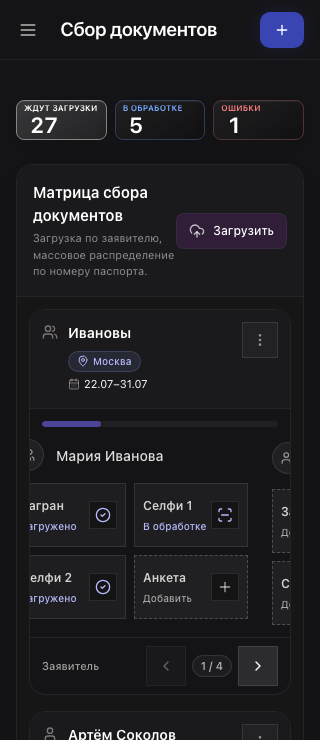
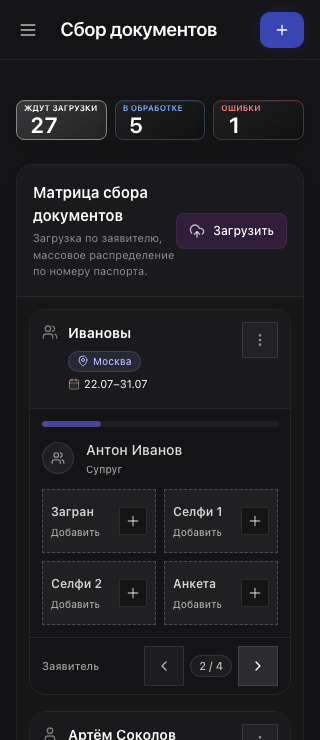
feat(ui): refine submission review actions and questionnaire choices
Что изменено:
- Уточнены drawer actions для review, corrections, export и draft состояний.
- Добавлено сворачивание выбранного варианта анкеты и улучшена blocker accessibility copy.
- Усилен visual baseline и точность document carousel E2E.
- Включены все новые параллельные QA screenshots.

Проверка:
- Tests: pass — documents Playwright 2/2.
- Typecheck and focused ESLint: pass.

Риск:
- Low/Medium — затронуты UI-состояния анкеты и drawer; rollback через revert этого коммита.

diff --git a/src/modules/submissions/components/FigmaQuestionnaireScreen.tsx b/src/modules/submissions/components/FigmaQuestionnaireScreen.tsx
@@ -637,6 +637,7 @@ function FormField({
 }: FormFieldProps) {
   const fieldContract = useContext(QuestionnaireFieldUiContext);
   const [isOpen, setIsOpen] = useState(false);
+  const [quickOptionsExpanded, setQuickOptionsExpanded] = useState(() => !value);
   const [isSuggestionsOpen, setIsSuggestionsOpen] = useState(false);
   const [optionQuery, setOptionQuery] = useState("");
   const [activeOptionIndex, setActiveOptionIndex] = useState(-1);
@@ -661,6 +662,7 @@ function FormField({
   }, [isOpen]);
 
   const usesQuickOptions = Boolean(options && options.length <= 3);
+  const collapsesQuickOptions = Boolean(options && options.length === 3);
   const usesOptionSearch = Boolean(options && options.length > 8);
   const filteredOptions = useMemo(() => {
     if (!options) return [];
@@ -701,6 +703,10 @@ function FormField({
     });
   }, [filteredOptions, isOpen]);
 
+  useEffect(() => {
+    if (!value) setQuickOptionsExpanded(true);
+  }, [value]);
+
   const canonicalRequired = fieldContract?.required(modelFieldId) ?? false;
   const canonicalFocused = fieldContract?.focused(modelFieldId) ?? focused;
   const canonicalState = fieldContract?.state(modelFieldId, label) ?? state;
@@ -738,6 +744,10 @@ function FormField({
       : effectiveState === "invalid"
         ? "is-invalid"
         : "is-normal";
+  const visibleQuickOptions =
+    collapsesQuickOptions && value && !quickOptionsExpanded
+      ? options?.filter((option) => option === value)
+      : options;
   const activeOptionId =
     isOpen && activeOptionIndex >= 0 && activeOptionIndex < filteredOptions.length
       ? `${optionsListboxId}-option-${activeOptionIndex}`
@@ -896,18 +906,45 @@ function FormField({
           aria-invalid={effectiveState === "invalid" ? "true" : undefined}
           aria-labelledby={fieldLabelId}
           aria-required={canonicalRequired ? "true" : undefined}
-          className="v19-questionnaire-quick-options"
+          className={`v19-questionnaire-quick-options${
+            collapsesQuickOptions && value ? " has-selection" : ""
+          }${
+            collapsesQuickOptions && value && !quickOptionsExpanded
+              ? " is-collapsed"
+              : ""
+          }`}
           role="group"
         >
-          {options.map((option) => (
+          {visibleQuickOptions?.map((option) => (
             <button
+              aria-expanded={
+                collapsesQuickOptions && value === option
+                  ? quickOptionsExpanded
+                  : undefined
+              }
               aria-pressed={value === option}
               className={`v19-questionnaire-field-control v19-questionnaire-quick-option ${
                 value === option ? "is-selected" : stateClasses
               }`}
               key={option}
+              title={
+                collapsesQuickOptions && value === option && !quickOptionsExpanded
+                  ? "Изменить выбор"
+                  : undefined
+              }
               type="button"
-              onClick={() => onChange?.(option)}
+              onClick={() => {
+                if (
+                  collapsesQuickOptions &&
+                  value === option &&
+                  !quickOptionsExpanded
+                ) {
+                  setQuickOptionsExpanded(true);
+                  return;
+                }
+                onChange?.(option);
+                if (collapsesQuickOptions) setQuickOptionsExpanded(false);
+              }}
             >
               {option}
             </button>
@@ -2520,7 +2557,7 @@ export function FigmaQuestionnaireScreen({
   const isCorrectionResubmission = draftSubmission.status === "returned";
   const completeActionLabel = isCorrectionResubmission
     ? "Отправить исправления"
-    : "Готово к проверке";
+    : "Отправить на проверку";
   const completeActionMobileLabel = completeActionLabel;
   const [activeApplicant, setActiveApplicant] = useState(initialApplicantId);
   const [activeSection, setActiveSection] = useState<SectionId>(
@@ -5398,7 +5435,9 @@ export function FigmaQuestionnaireScreen({
               ) : null}
               {!readinessStats.canSubmit && !currentSectionIssue ? (
                 <button
-                  aria-label={`Перейти к следующему обязательному действию: ${mobileBlockerLabel}`}
+                  aria-label={`Перейти к следующему обязательному действию: ${mobileBlockerLabel}${
+                    mobileBlockerReason ? `. ${mobileBlockerReason}` : ""
+                  }`}
                   className="v19-questionnaire-next-blocker"
                   data-testid="questionnaire-next-blocker"
                   type="button"
@@ -5407,7 +5446,6 @@ export function FigmaQuestionnaireScreen({
                   <AlertCircle aria-hidden="true" className="w-4 h-4" />
                   <span>
                     Сначала: <strong>{mobileBlockerLabel}</strong>
-                    {mobileBlockerReason ? ` — ${mobileBlockerReason}` : ""}
                   </span>
                   <ArrowRight aria-hidden="true" className="w-4 h-4" />
                 </button>

diff --git a/tests/e2e-supabase/browser-key-audit.spec.ts b/tests/e2e-supabase/browser-key-audit.spec.ts
@@ -654,6 +654,25 @@ async function openDrawerIssuesSection(page: Page) {
   await drawer(page).getByRole("button", { name: /Замечания/ }).click();
 }
 
+async function chooseQuestionnaireOption(
+  page: Page,
+  label: string,
+  value: string,
+) {
+  const field = page.locator(`[data-field-label="${label}"]`).first();
+  await expect(field).toBeVisible();
+  const dropdown = field.getByRole("combobox");
+  await expect(dropdown).toBeVisible();
+  if ((await dropdown.innerText()).trim().includes(value)) return;
+
+  await dropdown.click();
+  const search = field.getByRole("textbox", { name: `Поиск: ${label}` });
+  if (await search.isVisible().catch(() => false)) await search.fill(value);
+  const option = field.getByRole("option", { name: value, exact: true });
+  await expect(option).toBeVisible();
+  await option.click();
+}
+
 async function signInSmokeAgent(page: Page) {
   const smokeEnv = loadSmokeEnv();
   const smokeAgentEmail = requiredSmokeValue(smokeEnv, "SUPABASE_SMOKE_AGENT_EMAIL");
@@ -1013,7 +1032,7 @@ test.describe("Supabase sandbox auth smoke", () => {
       await tripSection.locator("summary").click();
       const routeReviewRow = reviewDrawer
         .locator(".admin-review-field-row")
-        .filter({ hasText: "Маршрут поездки" })
+        .filter({ hasText: "Страна первого въезда" })
         .first();
       await expect(routeReviewRow).toBeVisible();
       await routeReviewRow.getByTestId("admin-review-add-remark").click();
@@ -1062,15 +1081,15 @@ test.describe("Supabase sandbox auth smoke", () => {
       ).toBeVisible();
       await openDrawerIssuesSection(page);
       await drawer(page).getByRole("button", { name: "Исправить в анкете" }).click();
-      const routeField = page.getByLabel(/Маршрут поездки/).first();
-      await expect(routeField).toBeVisible();
-      await routeField.fill("Москва, Барселона, Мадрид, Москва");
+      await chooseQuestionnaireOption(page, "Страна первого въезда", "France");
       await expect(
         page.getByRole("button", { name: "Пометить исправленным" }),
       ).toBeVisible();
       await page.getByRole("button", { name: "Пометить исправленным" }).click();
       await expect(
-        page.getByText("Исправление по полю «Маршрут поездки»", { exact: false }),
+        page.getByText("Исправление по полю «Страна первого въезда»", {
+          exact: false,
+        }),
       ).toBeVisible();
       await expect(
         page.getByRole("button", { name: "Отправить исправления" }),

diff --git a/src/shared/ui/visual-baseline.css b/src/shared/ui/visual-baseline.css
@@ -22893,6 +22893,49 @@ body,
   color: var(--v19b-color-text-strong);
 }
 
+.vf-figma-questionnaire-screen .v19-questionnaire-quick-option.is-invalid {
+  background: transparent !important;
+}
+
+.vf-figma-questionnaire-screen .v19-questionnaire-quick-options.is-collapsed {
+  position: relative;
+  isolation: isolate;
+  grid-template-columns: minmax(var(--v19b-size-0), var(--v19b-grid-fr));
+  padding-right: var(--v19b-size-8);
+  padding-bottom: var(--v19b-size-8);
+}
+
+.vf-figma-questionnaire-screen
+  .v19-questionnaire-quick-options.is-collapsed::before,
+.vf-figma-questionnaire-screen
+  .v19-questionnaire-quick-options.is-collapsed::after {
+  position: absolute;
+  inset: var(--v19b-size-4);
+  z-index: auto;
+  border: var(--v19b-size-1) solid var(--v19b-color-border-strong);
+  border-radius: var(--v19-control-radius);
+  background: var(--v19b-color-control);
+  content: "";
+  pointer-events: none;
+}
+
+.vf-figma-questionnaire-screen
+  .v19-questionnaire-quick-options.is-collapsed::before {
+  transform: translate(var(--v19b-size-4), var(--v19b-size-4));
+}
+
+.vf-figma-questionnaire-screen
+  .v19-questionnaire-quick-options.is-collapsed::after {
+  transform: translate(var(--v19b-size-8), var(--v19b-size-8));
+}
+
+.vf-figma-questionnaire-screen
+  .v19-questionnaire-quick-options.is-collapsed
+  .v19-questionnaire-quick-option {
+  position: relative;
+  z-index: var(--v19b-z-base);
+}
+
 @keyframes v19-questionnaire-popup-cell-enter {
   from {
     opacity: 0;
@@ -23005,14 +23048,19 @@ body,
   opacity: var(--v19b-opacity-disabled);
 }
 
-/* Keep the active blocker or review remark available while its fields scroll. */
-.vf-figma-questionnaire-screen .v19-questionnaire-work-panel > :is(
-  .v19-questionnaire-next-blocker,
-  .v19-questionnaire-review-alert
-) {
+/* Review remarks stay visible; the next blocker remains in normal flow. */
+.vf-figma-questionnaire-screen
+  .v19-questionnaire-work-panel
+  > .v19-questionnaire-review-alert {
   position: sticky;
   top: var(--v19b-size-0);
   z-index: var(--v19b-z-base);
+}
+
+.vf-figma-questionnaire-screen
+  .v19-questionnaire-work-panel
+  > .v19-questionnaire-next-blocker {
+  position: static;
 }
 
 @media (min-width: 768px) {

diff --git a/src/components/Drawer.tsx b/src/components/Drawer.tsx
@@ -647,13 +647,37 @@ export function Drawer({
       );
     }
 
+    if (data.status === 'submitted_for_review') {
+      return (
+        <button className="v19-submission-drawer-primary" disabled type="button">
+          Отправлено на проверку
+        </button>
+      );
+    }
+
+    if (data.status === 'corrections_received') {
+      return (
+        <button className="v19-submission-drawer-primary" disabled type="button">
+          Исправления на проверке
+        </button>
+      );
+    }
+
+    if (data.status === 'ready_for_export') {
+      return (
+        <button className="v19-submission-drawer-primary" disabled type="button">
+          Готово к выгрузке
+        </button>
+      );
+    }
+
     return (
       <button
-        onClick={() => data.status === 'draft' ? void handleAction('save_progress') : undefined}
+        onClick={() => void handleAction('save_progress')}
         disabled={actionPending || data.status === 'exported'}
         className="v19-submission-drawer-primary flex-1 sm:flex-none h-11 px-8 bg-white/10 hover:bg-white/15 disabled:bg-white/5 disabled:text-white/30 disabled:cursor-not-allowed text-white font-medium text-[14px] rounded-xl transition-colors"
       >
-        {data.status === 'exported' ? 'Подача выгружена' : data.status === 'draft' ? 'Сохранить прогресс' : 'Сохранить черновик'}
+        {data.status === 'exported' ? 'Подача выгружена' : 'Сохранить прогресс'}
       </button>
     );
   };

diff --git a/tests/e2e/v19-documents-screen.spec.ts b/tests/e2e/v19-documents-screen.spec.ts
@@ -211,8 +211,12 @@ test.describe("V-19 document collection screen", () => {
         await page.getByRole("button", { name: "Следующий заявитель" }).first().click();
         await expect(firstPager).toHaveText(/^2 \/ [2-9]/);
         await expect
-          .poll(() => firstCarousel.evaluate((element) => element.scrollLeft))
-          .toBeGreaterThan(0);
+          .poll(() =>
+            firstCarousel.evaluate((element) =>
+              Math.abs(element.scrollLeft - element.clientWidth) <= 1,
+            ),
+          )
+          .toBe(true);
         await page.screenshot({
           animations: "disabled",
           fullPage: false,
